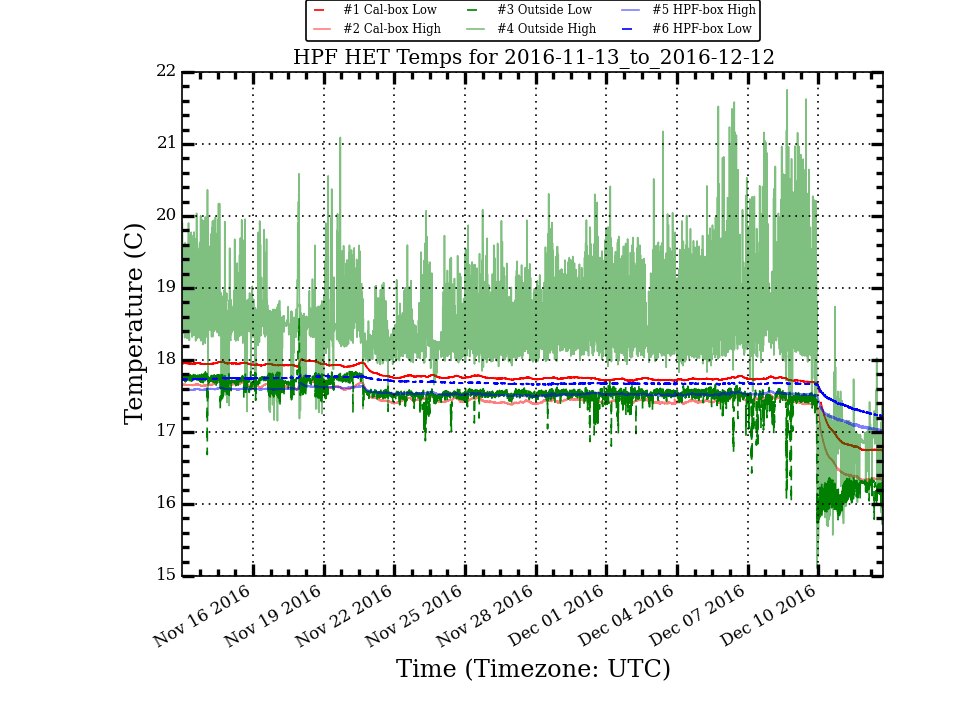
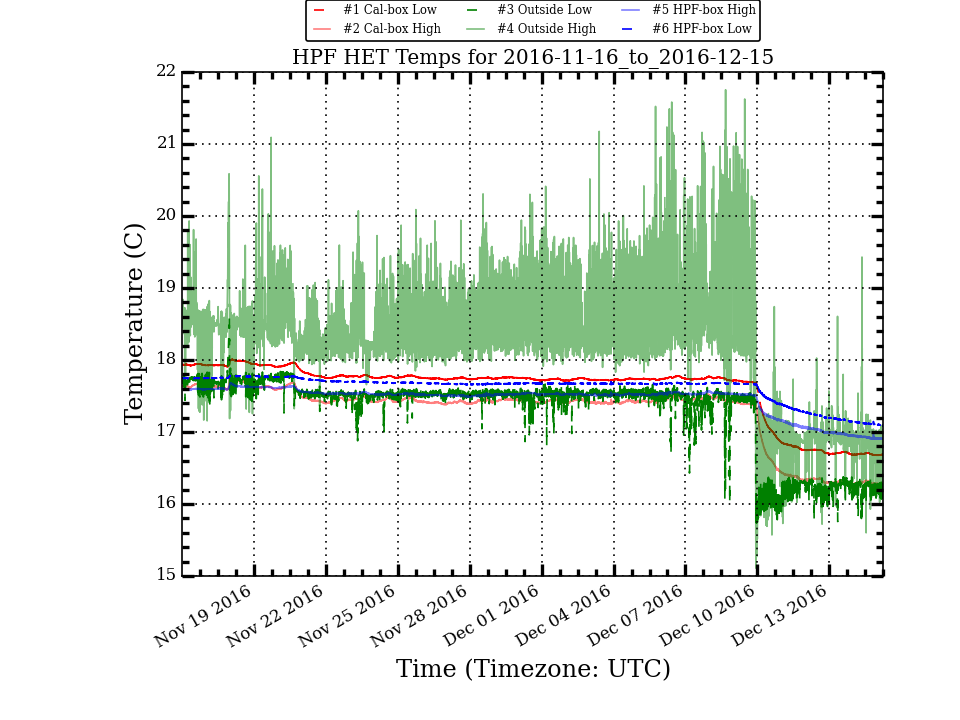
Update HPF Temp Plots

diff --git a/research/hpf_temps/plots/LakeShoreLogTotal_week_stats.html b/research/hpf_temps/plots/LakeShoreLogTotal_week_stats.html
@@ -10,56 +10,56 @@
  </TR>
  <TR>
   <TD>Cal_Low</TD>
-  <TD>17.395</TD>
-  <TD>0.430</TD>
-  <TD>17.703</TD>
-  <TD>17.781</TD>
-  <TD>16.730</TD>
-  <TD>1.051</TD>
+  <TD>16.948</TD>
+  <TD>0.367</TD>
+  <TD>16.752</TD>
+  <TD>17.720</TD>
+  <TD>16.676</TD>
+  <TD>1.044</TD>
  </TR>
  <TR>
   <TD>Cal_High</TD>
-  <TD>17.054</TD>
-  <TD>0.492</TD>
-  <TD>17.393</TD>
-  <TD>17.524</TD>
-  <TD>16.314</TD>
-  <TD>1.210</TD>
+  <TD>16.554</TD>
+  <TD>0.398</TD>
+  <TD>16.346</TD>
+  <TD>17.429</TD>
+  <TD>16.264</TD>
+  <TD>1.165</TD>
  </TR>
  <TR>
   <TD>Out_Low</TD>
-  <TD>16.911</TD>
-  <TD>0.637</TD>
-  <TD>17.339</TD>
-  <TD>17.643</TD>
+  <TD>16.387</TD>
+  <TD>0.459</TD>
+  <TD>16.263</TD>
+  <TD>17.548</TD>
   <TD>15.718</TD>
-  <TD>1.925</TD>
+  <TD>1.830</TD>
  </TR>
  <TR>
   <TD>Out_High</TD>
-  <TD>17.928</TD>
-  <TD>0.990</TD>
-  <TD>18.230</TD>
-  <TD>21.753</TD>
+  <TD>17.165</TD>
+  <TD>0.675</TD>
+  <TD>16.968</TD>
+  <TD>21.625</TD>
   <TD>15.108</TD>
-  <TD>6.645</TD>
+  <TD>6.517</TD>
  </TR>
  <TR>
   <TD>HPF_High</TD>
-  <TD>17.371</TD>
-  <TD>0.205</TD>
-  <TD>17.522</TD>
-  <TD>17.572</TD>
-  <TD>16.998</TD>
-  <TD>0.574</TD>
+  <TD>17.123</TD>
+  <TD>0.203</TD>
+  <TD>17.055</TD>
+  <TD>17.533</TD>
+  <TD>16.901</TD>
+  <TD>0.632</TD>
  </TR>
  <TR>
   <TD>HPF_Low</TD>
-  <TD>17.543</TD>
-  <TD>0.169</TD>
-  <TD>17.667</TD>
-  <TD>17.690</TD>
-  <TD>17.210</TD>
-  <TD>0.480</TD>
+  <TD>17.321</TD>
+  <TD>0.192</TD>
+  <TD>17.264</TD>
+  <TD>17.678</TD>
+  <TD>17.088</TD>
+  <TD>0.590</TD>
  </TR>
 </TABLE>

diff --git a/research/hpf_temps/plots/LakeShoreLogTotal_month_stats.html b/research/hpf_temps/plots/LakeShoreLogTotal_month_stats.html
@@ -10,56 +10,56 @@
  </TR>
  <TR>
   <TD>Cal_Low</TD>
-  <TD>17.721</TD>
-  <TD>0.284</TD>
-  <TD>17.752</TD>
+  <TD>17.610</TD>
+  <TD>0.391</TD>
+  <TD>17.745</TD>
   <TD>18.008</TD>
-  <TD>16.730</TD>
-  <TD>1.278</TD>
+  <TD>16.676</TD>
+  <TD>1.332</TD>
  </TR>
  <TR>
   <TD>Cal_High</TD>
-  <TD>17.404</TD>
-  <TD>0.316</TD>
-  <TD>17.443</TD>
+  <TD>17.283</TD>
+  <TD>0.430</TD>
+  <TD>17.432</TD>
   <TD>17.799</TD>
-  <TD>16.314</TD>
-  <TD>1.485</TD>
+  <TD>16.264</TD>
+  <TD>1.535</TD>
  </TR>
  <TR>
   <TD>Out_Low</TD>
-  <TD>17.428</TD>
-  <TD>0.428</TD>
-  <TD>17.530</TD>
+  <TD>17.296</TD>
+  <TD>0.533</TD>
+  <TD>17.515</TD>
   <TD>18.598</TD>
   <TD>15.718</TD>
   <TD>2.880</TD>
  </TR>
  <TR>
   <TD>Out_High</TD>
-  <TD>18.354</TD>
-  <TD>0.610</TD>
-  <TD>18.393</TD>
+  <TD>18.198</TD>
+  <TD>0.710</TD>
+  <TD>18.312</TD>
   <TD>21.753</TD>
   <TD>15.108</TD>
   <TD>6.645</TD>
  </TR>
  <TR>
   <TD>HPF_High</TD>
-  <TD>17.511</TD>
-  <TD>0.129</TD>
-  <TD>17.529</TD>
+  <TD>17.455</TD>
+  <TD>0.200</TD>
+  <TD>17.525</TD>
   <TD>17.684</TD>
-  <TD>16.998</TD>
-  <TD>0.686</TD>
+  <TD>16.901</TD>
+  <TD>0.783</TD>
  </TR>
  <TR>
   <TD>HPF_Low</TD>
-  <TD>17.669</TD>
-  <TD>0.111</TD>
-  <TD>17.677</TD>
+  <TD>17.617</TD>
+  <TD>0.181</TD>
+  <TD>17.674</TD>
   <TD>17.785</TD>
-  <TD>17.210</TD>
-  <TD>0.575</TD>
+  <TD>17.088</TD>
+  <TD>0.697</TD>
  </TR>
 </TABLE>
